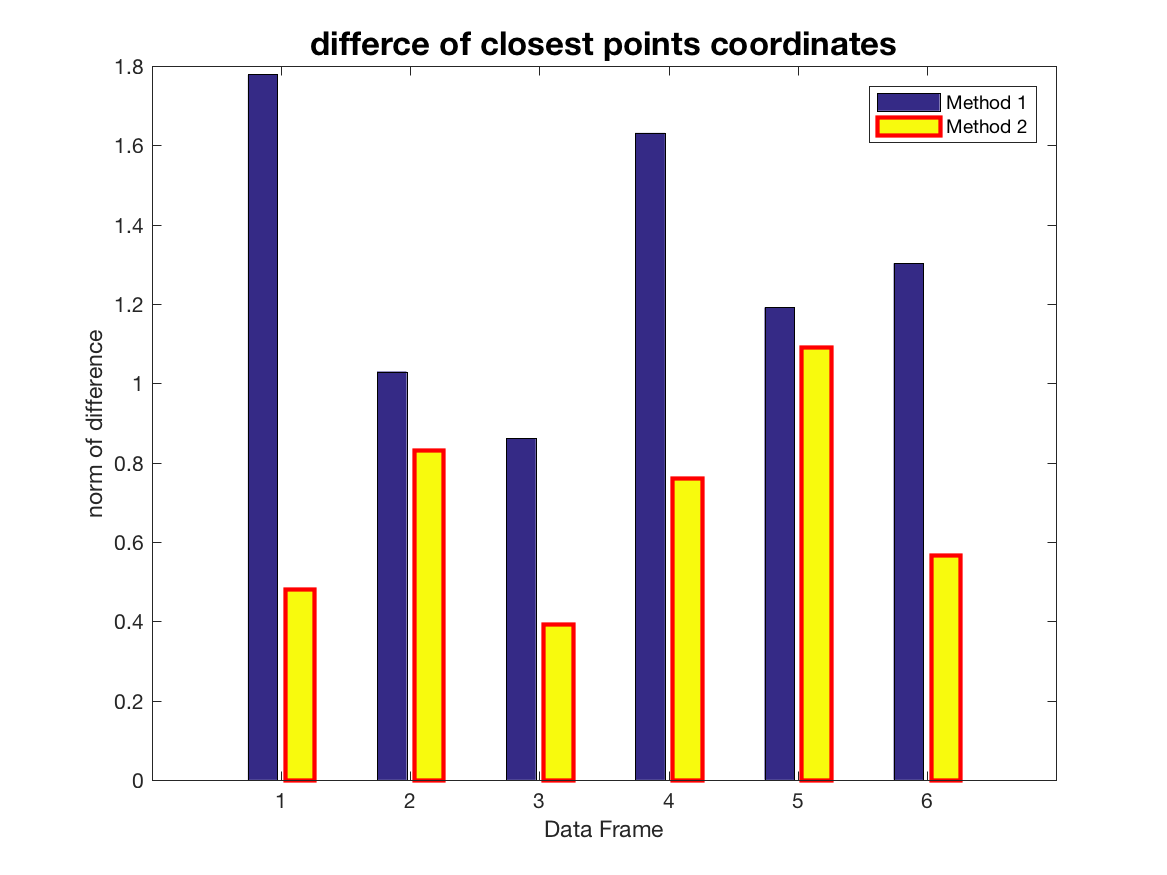
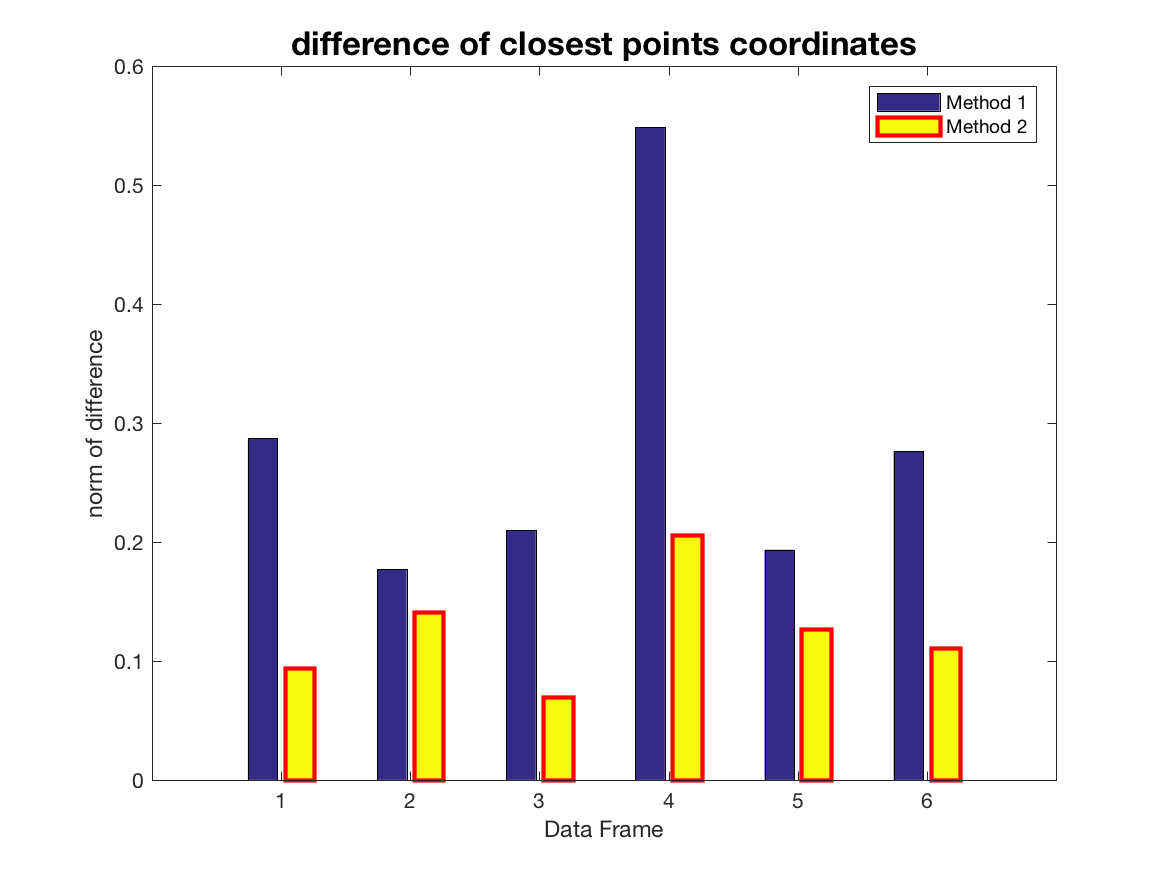
update ..
..

diff --git a/PA5/PA5Validation.m b/PA5/PA5Validation.m
@@ -1,3 +1,8 @@
+%% clear
+clc;
+clear;
+close all;
+
 %% add the path
 addpath('PA234 - Student Data/');
 addpath('PA5OutputData/');
@@ -5,9 +10,9 @@ addpath('Parse/');
 
 %% validate the algorithm
 lambda_diff_norm = zeros(6,2);
-s_diff_max = zeros(6,2);
-c_diff_max = zeros(6,2);
-distance_diff_max = zeros(6,2);
+s_diff_mean = zeros(6,2);
+c_diff_mean = zeros(6,2);
+distance_diff_mean = zeros(6,2);
 for index = 1:2
     for char = 'A':'F'
         % read the given debug result file
@@ -24,27 +29,26 @@ for index = 1:2
         lambda_diff_norm(abs(char)-64,index) = norm(lambda - computed_lambda);
 
         s_diff = sum((s_set - computed_s_set).^2, 2).^1/2;
-        s_diff_max(abs(char)-64,index) = max(s_diff);
+        s_diff_mean(abs(char)-64,index) = mean(s_diff);
 
         c_diff = sum((c_set - computed_c_set).^2, 2).^1/2;
-        c_diff_max(abs(char)-64,index) = max(c_diff);
+        c_diff_mean(abs(char)-64,index) = mean(c_diff);
 
-        distance_diff = dist_set - computed_dist_set;
-        distance_diff_max(abs(char)-64,index) = max(distance_diff);
+        distance_diff = computed_dist_set - dist_set;
+        distance_diff_mean(abs(char)-64,index) = mean(distance_diff);
 
         % display the results
         disp(strcat('data set:', char));
         disp(strcat('the difference of Lambda:', ...
             num2str(lambda_diff_norm(abs(char)-64))));
         disp(strcat('the difference of sample points coordinates:', ...
-            num2str(s_diff_max(abs(char)-64))));
+            num2str(s_diff_mean(abs(char)-64))));
         disp(strcat('the difference of closest points coordinates:', ...
-            num2str(c_diff_max(abs(char)-64))));
+            num2str(c_diff_mean(abs(char)-64))));
         disp(strcat('the difference of closest distance:', ...
-            num2str(distance_diff_max(abs(char)-64)))); 
+            num2str(distance_diff_mean(abs(char)-64)))); 
         disp('--------------------------------------------------------------');
     end
-    
 end
 
 f = figure;
@@ -52,7 +56,7 @@ b = bar(lambda_diff_norm);
 b(2).LineWidth = 2;
 b(2).EdgeColor = 'red';
 % title
-title('\fontsize{16}differce of Lambda');
+title('\fontsize{16}difference of Lambda');
 % x-axis label
 xlabel('Data Frame');
 % y-axis label
@@ -62,11 +66,11 @@ legend('Method 1', 'Method 2');
 saveas(f,strcat('PA5OutputFig/DiffNorm/lambda_diff_max.png'));
 
 f = figure;
-b = bar(s_diff_max);
+b = bar(s_diff_mean);
 b(2).LineWidth = 2;
 b(2).EdgeColor = 'red';
 % title
-title('\fontsize{16}differce of sample points coordinates');
+title('\fontsize{16}difference of sample points coordinates');
 % x-axis label
 xlabel('Data Frame');
 % y-axis label
@@ -76,11 +80,11 @@ legend('Method 1', 'Method 2');
 saveas(f,strcat('PA5OutputFig/DiffNorm/s_diff_max.png'));
 
 f = figure;
-b = bar(c_diff_max);
+b = bar(c_diff_mean);
 b(2).LineWidth = 2;
 b(2).EdgeColor = 'red';
 % title
-title('\fontsize{16}differce of closest points coordinates');
+title('\fontsize{16}difference of closest points coordinates');
 % x-axis label
 xlabel('Data Frame');
 % y-axis label
@@ -90,11 +94,11 @@ legend('Method 1', 'Method 2');
 saveas(f,strcat('PA5OutputFig/DiffNorm/c_diff_max.png'));
 
 f = figure;
-b = bar(distance_diff_max);
+b = bar(distance_diff_mean);
 b(2).LineWidth = 2;
 b(2).EdgeColor = 'red';
 % title
-title('\fontsize{16}differce of closest distance');
+title('\fontsize{16}difference of closest distance');
 % x-axis label
 xlabel('Data Frame');
 % y-axis label
